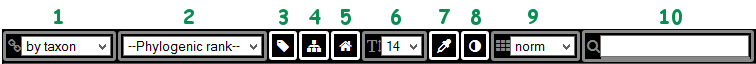
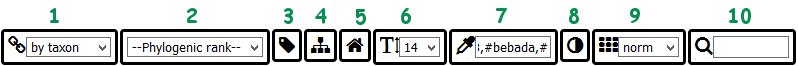
MAJ documentation

diff --git a/html/documentation.htm b/html/documentation.htm
@@ -242,14 +242,14 @@
 			<li>label: taxon | rank (labels treemap according to leaves or rank respectively)</li>
 			<li>upper: color | gray (colored or grayed upper rank respectively)</li>
 			<li>font: [number] (font size in point)</li>
-			<li>palette: 12 | 20 (number of colors in the palette)</li>
+			<li>palette: #800080,#008000 (list of colors)</li>
 			<li>background: black | white (color of treemap background)</li>
 			<li>size: norm | hits | nodes (see <a href="#size">Size parameter</a> for additinal information)</li>
 			<li>pattern: [pseudo code] (expression pattern for labelling the nodes of treemap - see <a href="#pattern">Pattern</a> for additional information)</li>
 		</ul></li>
 	</ul>
 	The file must be in JSON format. The default configuration file (mtm-config.json) is :
-	<div class="code">{"bar":{"display":false,"location":"bottom","width":600},"configuration":{"display":true,"location":"config"},"treemap":{"display":true,"location":"left","width":800,"height":600,"options":true},"table":{"display":true,"location":"right","width":700,"height":"650","options":false},"options":{"color":"taxon","rank":"null","label":"taxon","upper":"color","font":"14","palette":"12","background":"black","mode":"norm","pattern":"#N"}}</div>
+	<div class="code">{"bar":{"display":false,"location":"bottom","width":600},"configuration":{"display":true,"location":"config"},"treemap":{"display":true,"location":"left","width":800,"height":600,"options":true},"table":{"display":true,"location":"right","width":700,"height":"650","options":false},"options":{"color":"taxon","rank":"null","label":"taxon","upper":"color","font":"14","palette":"#8dd3c7, #ffffb3, #bebada, #fb8072, #80b1d3, #fdb462, #b3de69, #fccde5, #d9d9d9, #bc80bd, #ccebc5, #ffed6f", "background":"black","mode":"norm","pattern":"#N"}}</div>
 	<br/><a href="#top"><span class="fa fa-arrow-up"></span>Back</a>
 	
 	<h2 id="treemap">Treemap View</h2>
@@ -442,9 +442,15 @@
 	
 	<h3 id="colorset">Color Set</h3>
 	<img src="../img/guide-4.7.png" alt="color set"/>
-	<p>By default, the color set is 12 colors designed for qualitative data by <a href="http://colorbrewer.org" target="_blank">Cynthia Brewer</a></p>
+	<p>The user can define a color set by enter a list of color in this field. the colors must be separated by a comma. the colors can be named (red, green, blue), or in hexadecimal code (#80000,#00AA00,#003080). 
+	<br/>MTM suggest 2 sets: 
+	<ul><li>Colorbrewer: a color set of 12 colors designed for qualitative data by <a href="http://colorbrewer.org" target="_blank">Cynthia Brewer</a></li>
+		<li>d3.category: a color set of 20 colors designed for categories into <a href="http://d3js.org/" target="_blank">d3.js library</a></li>
+	</ul>
+	Example colorbrewer
+	</p>
 	<img src="../img/guide-4.7.1.1.png" alt="map 12 colors"/><img src="../img/guide-4.7.1.2.png" alt="table 12 colors"/>
-	<p>By turning off the Set button (see 7), color set change for 20 colors designed for categories into <a href="http://d3js.org/" target="_blank">d3.js library</a></p>
+	<p>Exemple d3.category</p>
 	<img src="../img/guide-4.7.2.1.png" alt="map 20 colors"/><img src="../img/guide-4.7.2.2.png" alt="table 20 colors"/>
 	<br/>
 	<a href="#top"><span class="fa fa-arrow-up"></span>Back</a>
@@ -453,7 +459,7 @@
 	<img src="../img/guide-4.8.png" alt="bgcolor"/>
 	<p>By default, the background color is black. Turning off the background button (see 8) switch to white</p>
 	<img src="../img/guide-4.8.1.png" alt="map bgcolor"/>
-	<p>In this example, Colored is set as "by rank", Rank is set as "phylum" and Background is "off". The black label of phyla are more legible with white border for rectangles.
+	<p>In this example, Colored is set as "by rank", Rank is set as "phylum", Labelling button is "off", and Background is "off". The black label of phyla are more legible with white border for rectangles.
 	</p>
 	<a href="#top"><span class="fa fa-arrow-up"></span>Back</a>
 	

diff --git a/js/mtm.js b/js/mtm.js
@@ -597,6 +597,7 @@ if(verbose){console.time("bar");}
 			.attr("value",config.options.palette)
 			.on("click",function() {
 				d3.selectAll('.mtm-colorbox').select('ul')
+					.style("padding","5px")
 					.selectAll("li")
 					.data(colors)
 					.enter().append("li")
@@ -606,7 +607,8 @@ if(verbose){console.time("bar");}
 						d3.selectAll(".mtm-palette").property("value",d[1]);
 						d3.select("#options_palette").property('value',d[1]);
 						//action
-						d3.selectAll('.mtm-colorbox').select('ul').selectAll("li").remove()
+						d3.selectAll('.mtm-colorbox').select('ul').style("padding","0px 5px")
+							.selectAll("li").remove()
 						color=d3.scale.ordinal().range(config.options.palette.split(/\s*,\s*/));
 						updateColor(); 
 					})
@@ -618,7 +620,8 @@ if(verbose){console.time("bar");}
 				d3.selectAll(".mtm-palette").property("value",this.value);
 				d3.select("#options_palette").property('value',this.value);
 				//action
-				d3.selectAll('.mtm-colorbox').select('ul').selectAll("li").remove()
+				d3.selectAll('.mtm-colorbox').select('ul').style("padding","0px 5px")
+					.selectAll("li").remove()
 				color=d3.scale.ordinal().range(config.options.palette.split(/\s*,\s*/));
 				updateColor(); 
 			})
@@ -688,12 +691,13 @@ if(verbose){console.time("bar");}
 				d3.selectAll('.mtm-searchbox').select('ul')
 					.selectAll("li").remove()
 				d3.selectAll('.mtm-searchbox').select('ul')
+					.style("padding","5px")
 					.selectAll("li")
 					.data(matches)
 					.enter().append("li")
 					.on("click",function(d) {
 						d3.selectAll(".mtm-search").property("value",d.name);
-						d3.selectAll('.mtm-searchbox').select('ul')
+						d3.selectAll('.mtm-searchbox').select('ul').style("padding","0px 5px")
 							.selectAll("li").remove()
 						tip("hide",d);
 						zoomSkip(d); 
